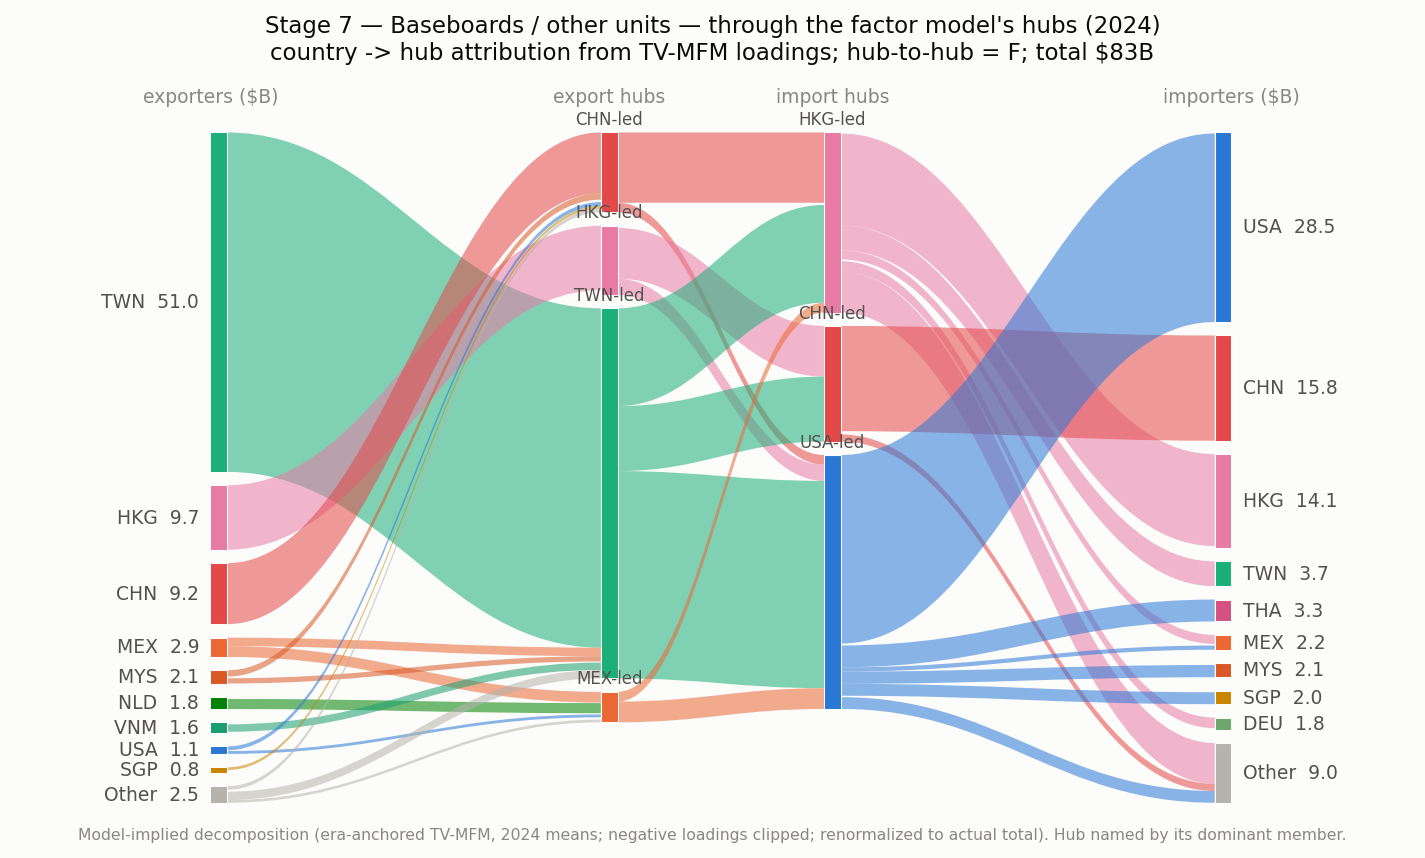
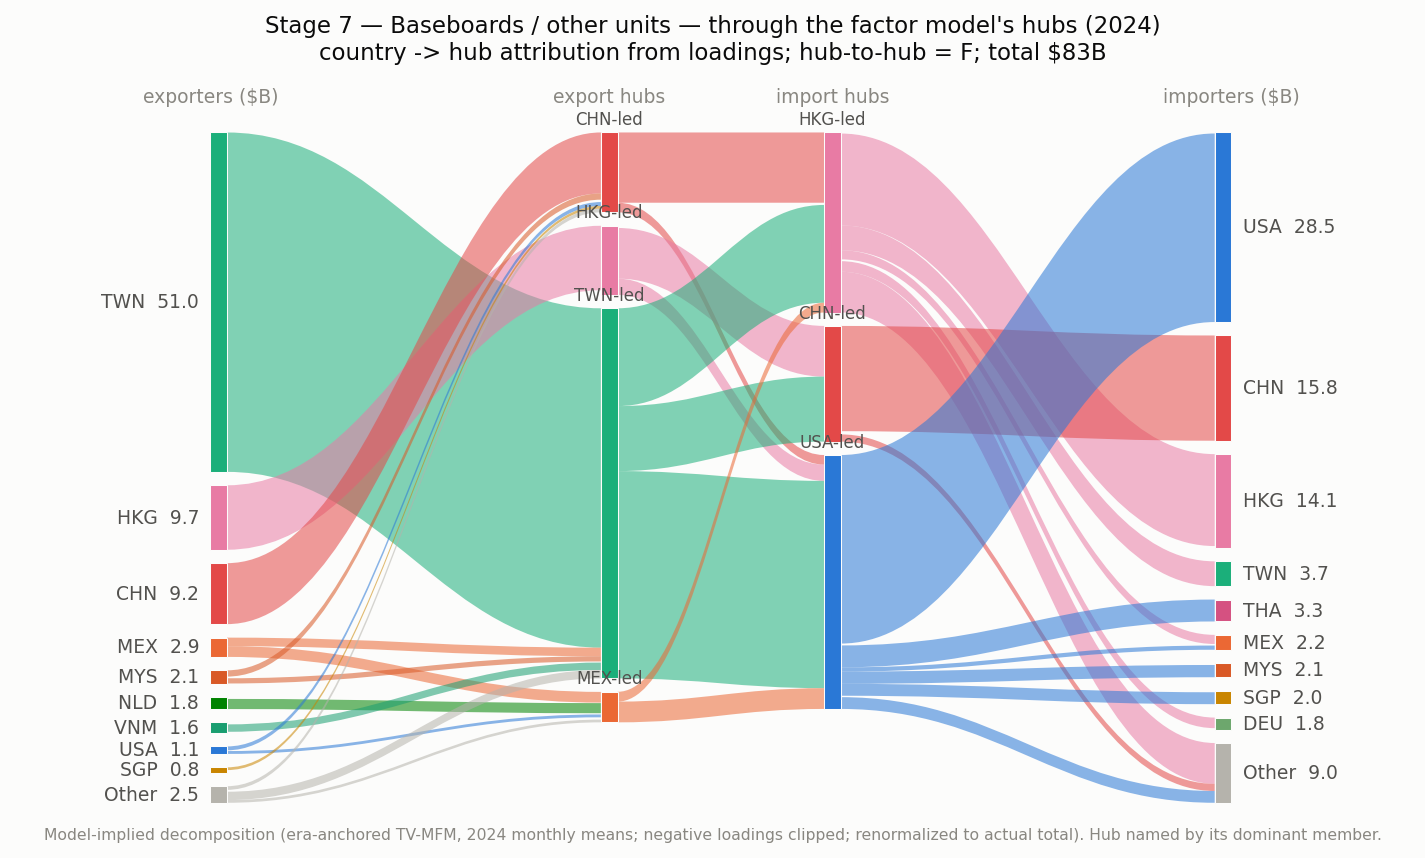
Charts: hub-routed 4-column versions for ALL 8 stages + 3 overview scales
Upstream stages (raw materials .. chips) get hubs from a constant-loading
annual MFM on the 2020-24 bilateral matrices (no monthly panel upstream);
compute codes keep TV-MFM hubs. Overview now ships in dollar / log /
normalized scale versions per user direction (nominal comparability vs
readability trade-off made explicit). Narrative links updated.

Changed region(s): [[0.1853, 0.0303, 0.8028, 0.0909], [0.0309, 0.9697, 0.9572, 1.0]]

diff --git a/scripts/export_supply_chain_sankey.py b/scripts/export_supply_chain_sankey.py
@@ -181,18 +181,76 @@ def draw_stage(fname, title, codes_txt, flows):
     print(f"-> {out}  (${total:.0f}B)")
 
 
-def draw_stage_with_hubs(fname, title, code):
-    """Four-column chart for a panel code: exporters -> export hubs -> import hubs
-    -> importers. Middle columns come from the era-anchored TV-MFM (2024 mean of
-    monthly loadings and F, negative loadings clipped at 0); hub-pair dollars are
-    the model-implied decomposition renormalized to the year's actual total, so
-    this is an interpretation layer, not raw data."""
+def varimax(L, iters=200, tol=1e-8):
+    p, k = L.shape
+    O = np.eye(k)
+    var = 0.0
+    for _ in range(iters):
+        B = L @ O
+        U, sv, Vt = np.linalg.svd(L.T @ (B**3 - B @ np.diag((B**2).sum(0)) / p))
+        O = U @ Vt
+        if sv.sum() < var * (1 + tol):
+            break
+        var = sv.sum()
+    return O
+
+
+def hubs_from_panel(code):
+    """Hub inputs from the era-anchored TV-MFM: 2024 means of monthly loadings/F."""
     s = json.load(open(cfg.RESULTS_DIR / "mfm" / "tvmfm" / "by_country" / code / "stats.json"))
     months = [p for p in s["periods"] if p.startswith(YEAR)]
     countries = s["countries"]
     R = np.mean([np.array(s["R_by_period"][m]) for m in months], axis=0).clip(min=0)
     C = np.mean([np.array(s["C_by_period"][m]) for m in months], axis=0).clip(min=0)
     F = np.mean([np.array(s["F_by_period"][m]) for m in months], axis=0)
+    return countries, R, C, F, "era-anchored TV-MFM, 2024 monthly means"
+
+
+def hubs_from_json(baskets, k=4):
+    """Hub inputs for upstream stages: constant-loading MFM (k=r=4, $B levels,
+    varimax) on the ANNUAL bilateral matrices 2020-2024 from the dashboard data --
+    same estimator as results/mfm/annual, no monthly panel exists upstream."""
+    d = json.load(open(cfg.ROOT / "dashboard" / "public" / "data" / "techai_bilateral.json"))
+    flows = {}
+    for b in baskets:
+        for o, dests in d["value"].get(b, {}).items():
+            for t, yrs in dests.items():
+                for y, v in yrs.items():
+                    if 2020 <= int(y) <= 2024 and o != t and v:
+                        flows[(int(y), o, t)] = flows.get((int(y), o, t), 0.0) + v
+    countries = sorted({o for (_, o, _) in flows} | {t for (_, _, t) in flows})
+    idx = {c: i for i, c in enumerate(countries)}
+    years = sorted({y for (y, _, _) in flows})
+    Y = np.zeros((len(years), len(countries), len(countries)))
+    for (y, o, t), v in flows.items():
+        Y[years.index(y), idx[o], idx[t]] = v
+    p = q = len(countries)
+    M_R = np.einsum("sij,skj->ik", Y, Y)
+    M_C = np.einsum("sji,sjk->ik", Y, Y)
+    _, vr = np.linalg.eigh(M_R)
+    _, vc = np.linalg.eigh(M_C)
+    R = vr[:, -k:][:, ::-1] * np.sqrt(p)
+    C = vc[:, -k:][:, ::-1] * np.sqrt(q)
+    R, C = R @ varimax(R), C @ varimax(C)
+    for L in (R, C):                              # dominant member positive
+        for j in range(k):
+            if L[np.abs(L[:, j]).argmax(), j] < 0:
+                L[:, j] *= -1
+    F = R.T @ Y[-1] @ C / (p * q)                 # 2024 factor matrix
+    return countries, R.clip(min=0), C.clip(min=0), F, \
+        "constant-loading annual MFM 2020-24 (no monthly panel upstream)"
+
+
+def draw_hub_chart(fname, title, code_or_baskets, kind):
+    """Four-column chart: exporters -> export hubs -> import hubs -> importers.
+    Hub-pair dollars are the model-implied decomposition renormalized to the
+    year's actual total -- an interpretation layer, not raw data."""
+    if kind == "panel":
+        countries, R, C, F, src = hubs_from_panel(code_or_baskets)
+        total_actual = sum(flows_panel(code_or_baskets).values())
+    else:
+        countries, R, C, F, src = hubs_from_json(code_or_baskets)
+        total_actual = sum(flows_json(code_or_baskets).values())
     K = R.shape[1]
     hubR = [f"{countries[int(R[:, a].argmax())]}-led" for a in range(K)]
     hubC = [f"{countries[int(C[:, b].argmax())]}-led" for b in range(K)]
@@ -202,7 +260,6 @@ def draw_stage_with_hubs(fname, title, code):
     Rsum, Csum = R.sum(0), C.sum(0)
     V = np.outer(Rsum, Csum) * F                 # hub-pair fitted totals
     V = V.clip(min=0)
-    total_actual = sum(flows_panel(code).values())
     V *= total_actual / V.sum()
     E = (R / np.where(Rsum > 0, Rsum, 1)) [:, :] * V.sum(1)   # exporter -> exp hub
     I = (C / np.where(Csum > 0, Csum, 1)) [:, :] * V.sum(0)   # imp hub -> importer
@@ -292,20 +349,21 @@ def draw_stage_with_hubs(fname, title, code):
                    (xs[2] + nw / 2, "import hubs"), (xs[3] + nw, "importers ($B)")):
         ax.text(x, 1.045, lab, ha="center", fontsize=9, color=MUTED)
     ax.set_title(f"{title} — through the factor model's hubs ({YEAR})\n"
-                 f"country -> hub attribution from TV-MFM loadings; hub-to-hub = F; "
+                 f"country -> hub attribution from loadings; hub-to-hub = F; "
                  f"total ${total_actual:.0f}B", fontsize=11, color=INK, pad=16)
-    ax.text(0.5, -0.055, "Model-implied decomposition (era-anchored TV-MFM, 2024 means; "
-            "negative loadings clipped; renormalized to actual total). Hub named by its "
-            "dominant member.", ha="center", fontsize=7.5, color=MUTED)
+    ax.text(0.5, -0.055, f"Model-implied decomposition ({src}; negative loadings "
+            "clipped; renormalized to actual total). Hub named by its dominant member.",
+            ha="center", fontsize=7.5, color=MUTED)
     out = OUT_DIR / f"supply_chain_{fname}_hubs_{YEAR}.png"
     fig.savefig(out, dpi=150, bbox_inches="tight", facecolor=SURFACE)
     plt.close(fig)
     print(f"-> {out}")
 
 
-def draw_overview(stage_flows):
-    """Multi-column chain: checkpoint columns, one stage per gap. Each gap is
-    normalized to full height (stage totals differ 70x); totals printed per stage."""
+def draw_overview(stage_flows, MODE="dollar"):
+    """Multi-column chain: checkpoint columns, one stage per gap. ONE common dollar
+    scale across all stages, so band widths are nominally comparable everywhere --
+    the chain visibly amplifies from $13B of raw materials to $926B of chips."""
     TOPG = 5
     H = 0.82
     folded = []
@@ -332,8 +390,15 @@ def draw_overview(stage_flows):
             inv[t] = inv.get(t, 0.0) + v
     order = [c for c in inv.sort_values(ascending=False).index if c != "Other"] + ["Other"]
 
-    scales = [H / sum(f.values()) for f in folded]
-    pad = 0.014
+    totals = [sum(f.values()) for f in folded]
+    if MODE == "dollar":            # one common $ scale: widths nominal everywhere
+        scales = [H / max(totals)] * len(folded)
+    elif MODE == "log":             # column height ~ log10($B): compromise
+        heights = [H * np.log10(t) / np.log10(max(totals)) for t in totals]
+        scales = [h / t for h, t in zip(heights, totals)]
+    else:                           # normalized: every stage full height
+        scales = [H / t for t in totals]
+    pad = 0.008 if MODE == "dollar" else 0.012
 
     def col_nodes(c):
         out_v, in_v = {}, {}
@@ -380,7 +445,7 @@ def draw_overview(stage_flows):
                 y1 = node_pos[g + 1][t][0] - in_off[t]
                 out_off[o] += h
                 in_off[t] += h
-                if h > 0.011:
+                if h > 0.0035:
                     ribbon(ax, xs[g] + nw, xs[g + 1], y0, y1, h, COLOR.get(o, FALLBACK))
 
     for c in range(n_cols):
@@ -400,15 +465,17 @@ def draw_overview(stage_flows):
         ax.text(xm, yb - 0.032, f"${sum(f.values()):.0f}B", ha="center", fontsize=9,
                 color=INK2)
 
+    scale_note = {"dollar": "one dollar scale — band width nominally comparable everywhere",
+                  "log": "column height ~ log10 of stage total — a compromise scale",
+                  "normalized": "each stage normalized to full height — shares only"}[MODE]
     fig.suptitle("The AI-compute supply chain, 2024 — eight stages of bilateral trade "
-                 "(each stage normalized to full height; totals above)",
-                 fontsize=13, color=INK, y=0.99)
+                 f"({scale_note})", fontsize=13, color=INK, y=0.99)
     ax.text(0.5, -0.08, "Ribbon colour = exporting country; each column is a checkpoint "
-            "(country sells the right-hand stage, buys the left-hand stage). Widths comparable "
-            "WITHIN a stage only. No cross-stage absorption implied. Sources: "
-            "docs/tech-ai-taxonomy.md codes; Atlas HS2012 bilateral / monthly panel.",
-            ha="center", fontsize=8, color=MUTED)
-    out = OUT_DIR / f"supply_chain_overview_{YEAR}.png"
+            "(country sells the right-hand stage, buys the left-hand stage). Smallest "
+            "corridors not drawn (see per-stage charts for detail). No cross-stage "
+            "absorption implied. Sources: docs/tech-ai-taxonomy.md codes; Atlas HS2012 "
+            "bilateral / monthly panel.", ha="center", fontsize=8, color=MUTED)
+    out = OUT_DIR / f"supply_chain_overview_{MODE}_{YEAR}.png"
     fig.savefig(out, dpi=150, bbox_inches="tight", facecolor=SURFACE)
     plt.close(fig)
     print(f"-> {out}")
@@ -421,9 +488,9 @@ def main():
         flows = flows_json(arg) if kind == "json" else flows_panel(arg)
         all_flows.append(flows)
         draw_stage(fname, title, codes_txt, flows)
-        if kind == "panel":
-            draw_stage_with_hubs(fname, title, arg)
-    draw_overview(all_flows)
+        draw_hub_chart(fname, title, arg, kind)
+    for mode in ("dollar", "log", "normalized"):
+        draw_overview(all_flows, mode)
 
 
 if __name__ == "__main__":

diff --git a/docs/supply-chain-narrative.md b/docs/supply-chain-narrative.md
@@ -28,17 +28,23 @@ the chips stage.
 
 The same map as flow charts (`exports/supply_chain_*_2024.png`, regenerate with
 `python scripts/export_supply_chain_sankey.py`): a multi-column overview of all
-eight stages (each stage normalized to full height — totals differ 70x), one
-detailed chart per stage with true within-stage scale, and for the three compute
-codes a four-column version routing the flows through the factor model's export
-and import hubs.
+eight stages in three scale versions (dollar — nominally comparable widths
+everywhere; log — column height tracks log10 of the stage total; normalized —
+every stage full height, shares only), one detailed two-column chart per stage
+with true within-stage scale, and for every stage a four-column version routing
+the flows through factor-model hubs (exporters -> export hubs -> import hubs ->
+importers; TV-MFM for the three compute codes, annual constant-loading MFM
+upstream).
 
-![overview](../exports/supply_chain_overview_2024.png)
+![overview dollar](../exports/supply_chain_overview_dollar_2024.png)
+![overview log](../exports/supply_chain_overview_log_2024.png)
+![overview normalized](../exports/supply_chain_overview_normalized_2024.png)
 ![raw materials](../exports/supply_chain_1_raw_materials_2024.png)
 ![wafers](../exports/supply_chain_2_wafers_2024.png)
 ![litho optics](../exports/supply_chain_3_litho_optics_2024.png)
 ![equipment](../exports/supply_chain_4_equipment_2024.png)
 ![chips](../exports/supply_chain_5_chips_2024.png)
+![chips through hubs](../exports/supply_chain_5_chips_hubs_2024.png)
 ![parts](../exports/supply_chain_6_parts_2024.png)
 ![baseboards](../exports/supply_chain_7_baseboards_2024.png)
 ![servers](../exports/supply_chain_8_servers_2024.png)
